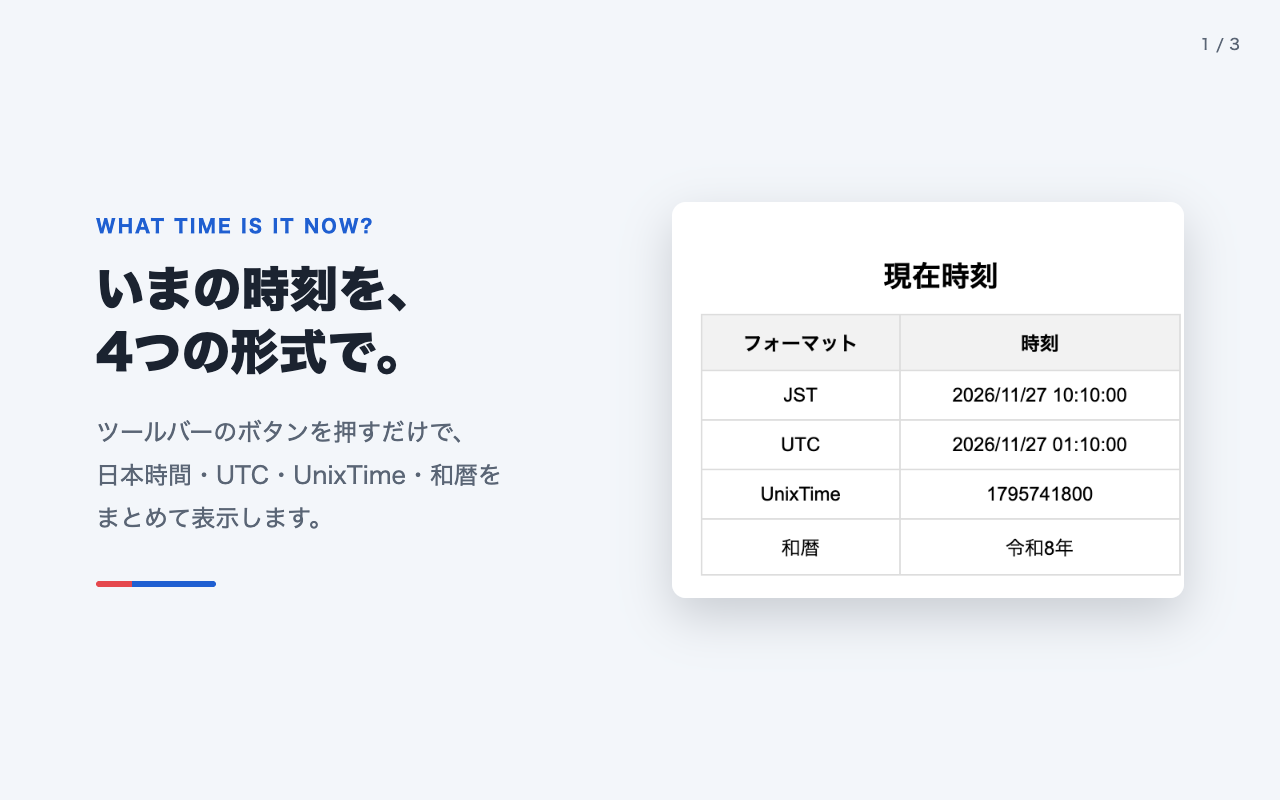
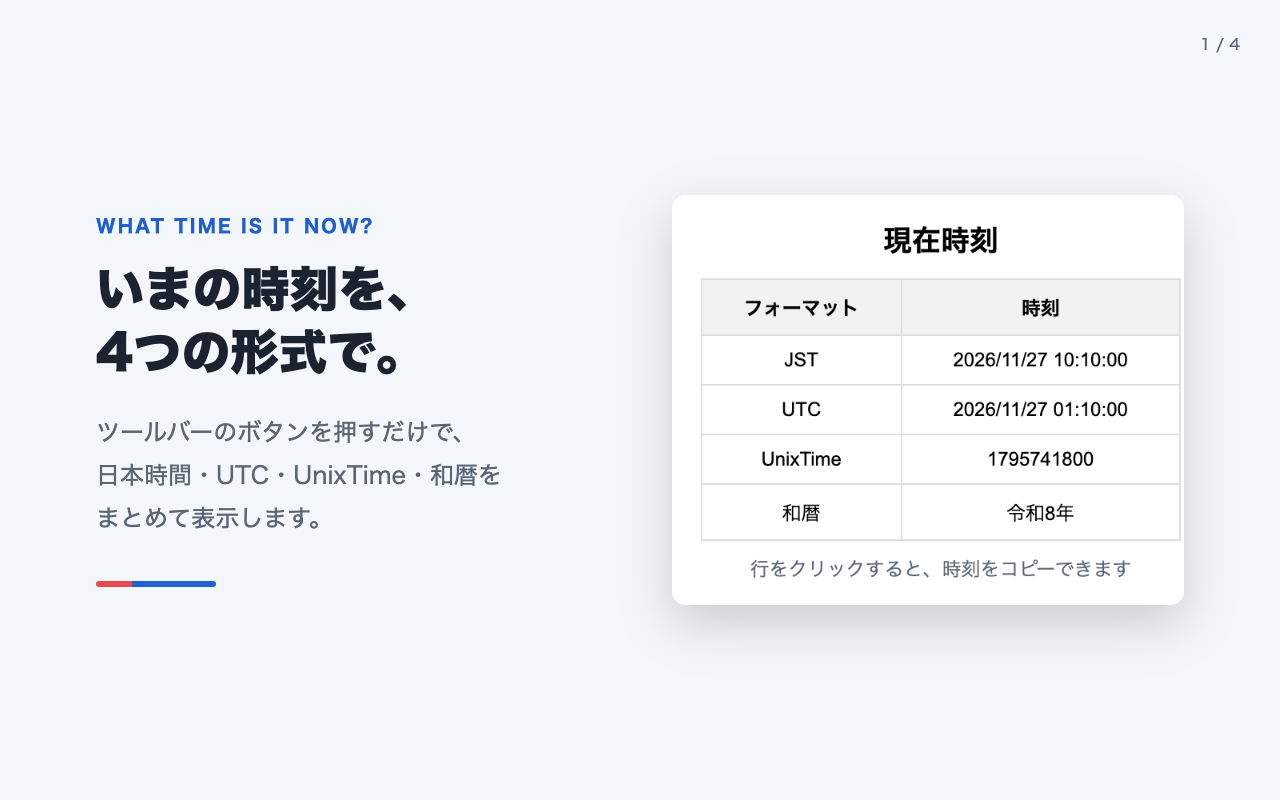
📸 スクリーンショットをコピーと変換の機能に合わせて撮り直す
2枚目をクリックでコピーの紹介に変え、変換機能を紹介する4枚目を追加する。

Changed region(s): [[0.5312, 0.375, 0.9062, 0.7812], [0.6875, 0.2812, 0.7812, 0.375]]

diff --git a/scripts/screenshots.js b/scripts/screenshots.js
@@ -12,35 +12,54 @@ const template = fs.readFileSync(path.join(storeDir, 'slide.html'), 'utf8');
 const SHOT_TIME = new Date('2026-11-27T01:10:00Z');
 
 // highlight: 強調するポップアップの行（tdのid）
+// copy: クリックしてコピーする行（tdのid）、convert: 変換欄に入力する値
+// part: 'clock' は現在時刻の表まで、'convert' は変換欄だけを切り出す
 const shots = [
   {
     file: 'screenshot-1.png',
     highlight: [],
+    part: 'clock',
     eyebrow: 'WHAT TIME IS IT NOW?',
     title: 'いまの時刻を、<br>4つの形式で。',
     body: 'ツールバーのボタンを押すだけで、<br>日本時間・UTC・UnixTime・和暦を<br>まとめて表示します。',
   },
   {
     file: 'screenshot-2.png',
-    highlight: ['timeUTC', 'timeUnix'],
-    eyebrow: '開発や運用のおともに',
-    title: 'ログの時刻と、<br>すぐに照らし合わせ。',
-    body: 'サーバーのログはUTC、APIの値はUnixTime。日本時間と並べて、換算せずに確かめられます。',
+    highlight: ['timeUnix'],
+    copy: 'timeUnix',
+    part: 'clock',
+    eyebrow: 'クリックでコピー',
+    title: '行をクリックすれば、<br>そのまま貼り付け。',
+    body: 'UnixTimeもUTCも、クリックひとつで<br>クリップボードへ。<br>ログの検索やチケットへの記入に。',
   },
   {
     file: 'screenshot-3.png',
     highlight: ['timeWareki'],
+    part: 'clock',
     eyebrow: '和暦もひと目で',
     title: '今年は令和何年？<br>にもすぐ答えます。',
-    body: '書類に和暦を書くときも、ボタンひとつ。日本時間で数えるので、年明けもずれません。',
+    body: '書類に和暦を書くときも、ボタンひとつ。<br>日本時間で数えるので、年明けもずれません。',
+  },
+  {
+    file: 'screenshot-4.png',
+    highlight: [],
+    convert: '1795741800123',
+    part: 'convert',
+    eyebrow: '開発や運用のおともに',
+    title: 'ログの時刻を、<br>貼るだけで変換。',
+    body: 'UnixTime（秒・ミリ秒）や日時を<br>貼り付けると、日本時間・UTC・<br>和暦に変換します。',
   },
 ];
 
 // ポップアップは拡大して載せるため、2倍の解像度で撮っておく
-async function capturePopup(context, extensionId, highlight) {
+async function capturePopup(context, extensionId, shot) {
   const page = await context.newPage();
+  // 撮影でPCのクリップボードを書き換えないよう、コピーは何もしないようにする
+  await page.addInitScript(() => {
+    navigator.clipboard.writeText = async () => {};
+  });
   await page.clock.setFixedTime(SHOT_TIME);
-  await page.setViewportSize({ width: 320, height: 400 });
+  await page.setViewportSize({ width: 320, height: 640 });
   await page.goto(`chrome-extension://${extensionId}/popup.html`);
   await page.evaluate((ids) => {
     for (const id of ids) {
@@ -48,10 +67,22 @@ async function capturePopup(context, extensionId, highlight) {
       row.style.background = '#fff3c4';
       row.style.fontWeight = 'bold';
     }
-  }, highlight);
-  const box = await page.locator('table').boundingBox();
-  const height = Math.ceil(box.y + box.height + 14);
-  const image = await page.screenshot({ clip: { x: 0, y: 0, width: 320, height } });
+  }, shot.highlight);
+  if (shot.copy) {
+    await page.locator(`#${shot.copy}`).click();
+    await page.mouse.move(0, 0);
+  }
+  if (shot.convert) {
+    await page.locator('#convertInput').fill(shot.convert);
+  }
+
+  const [top, bottom] = shot.part === 'convert' ? ['h3', '#convertResult'] : ['h2', '#copyStatus'];
+  const topBox = await page.locator(top).boundingBox();
+  const bottomBox = await page.locator(bottom).boundingBox();
+  // 変換欄は、見出しの上の区切り線を含めない
+  const y = shot.part === 'convert' ? Math.ceil(topBox.y + 2) : Math.max(0, Math.floor(topBox.y - 14));
+  const height = Math.ceil(bottomBox.y + bottomBox.height + 14) - y;
+  const image = await page.screenshot({ clip: { x: 0, y, width: 320, height } });
   await page.close();
   return image.toString('base64');
 }
@@ -72,7 +103,7 @@ async function main() {
   const slidePage = await browser.newPage({ viewport: { width: 1280, height: 800 }, deviceScaleFactor: 1 });
 
   for (const [index, shot] of shots.entries()) {
-    const popup = await capturePopup(context, extensionId, shot.highlight);
+    const popup = await capturePopup(context, extensionId, shot);
     await slidePage.setContent(renderSlide(shot, index, popup));
     const out = path.join(storeDir, shot.file);
     await slidePage.screenshot({ path: out });
